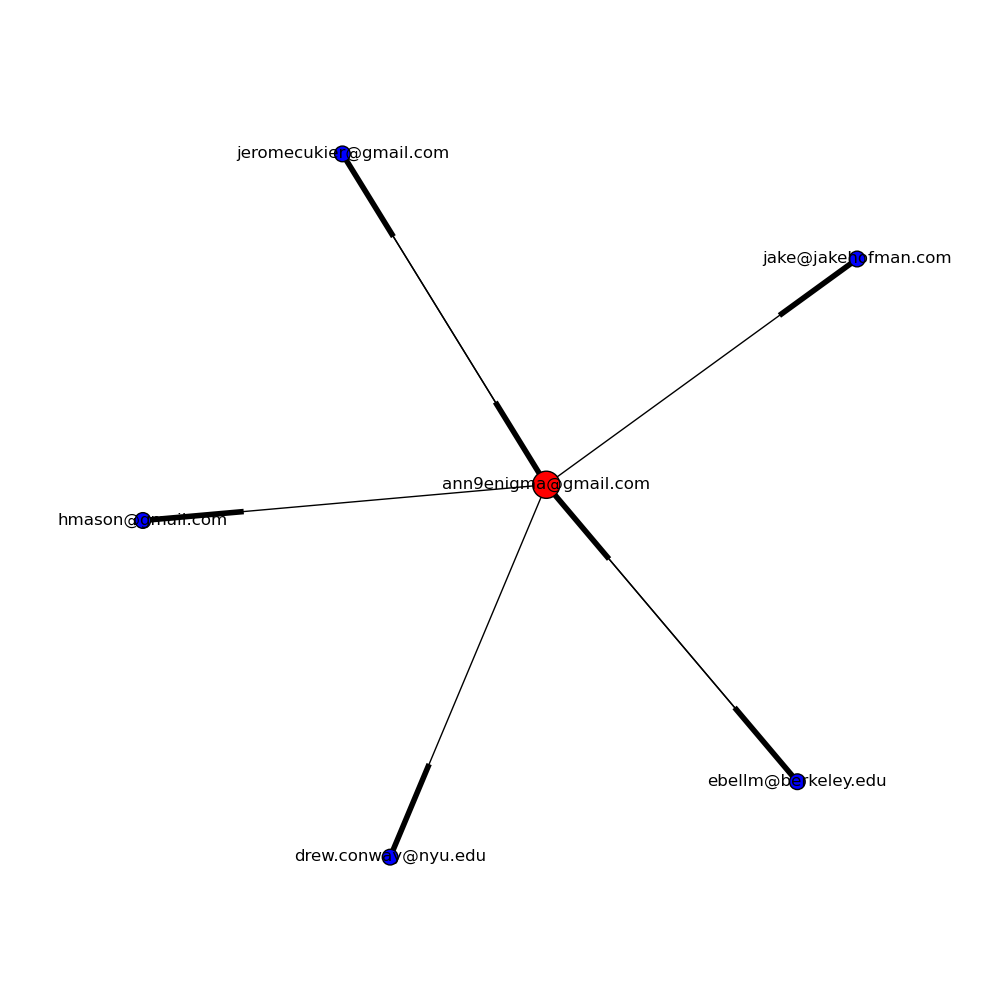
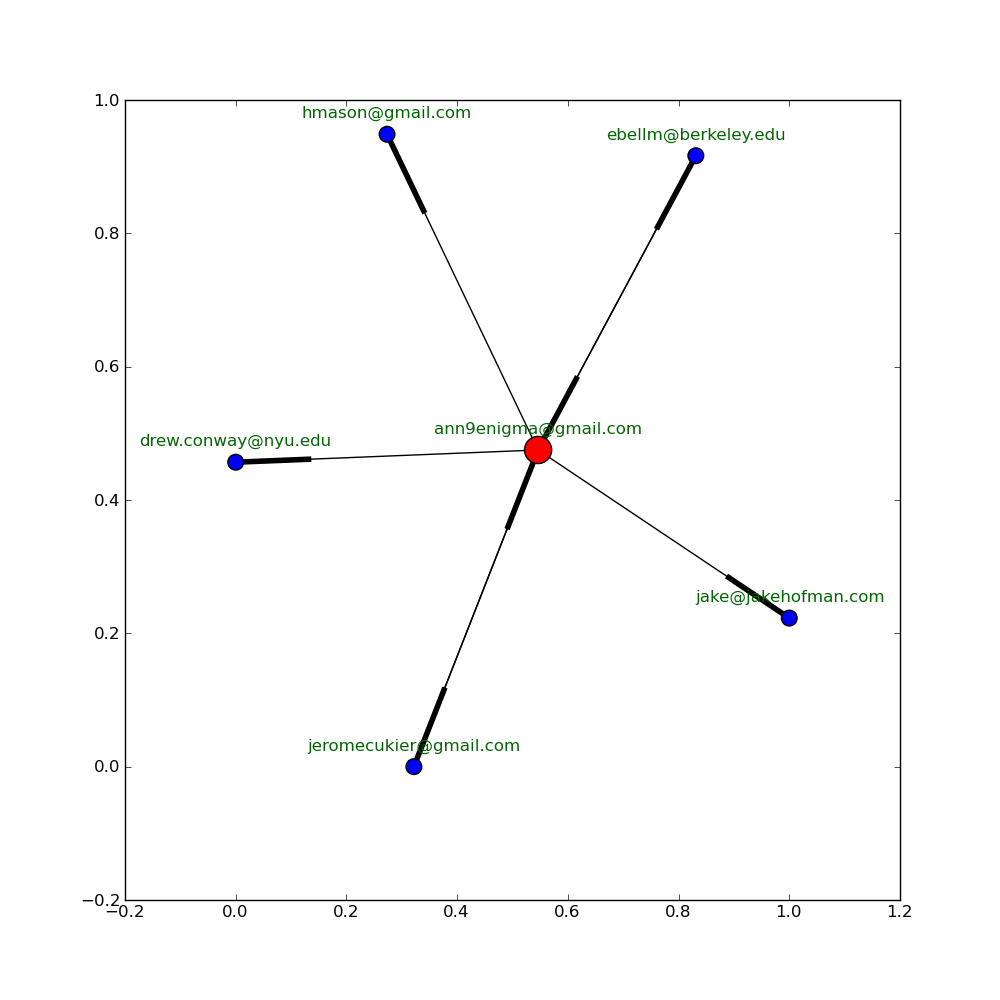
Moved e-mail viz script and changed vix slightly to make them more readable

diff --git a/code/text_data/email_graph/email_viz.py b/code/text_data/email_graph/email_viz.py
@@ -35,11 +35,20 @@ def lattice_plot(component_list, file_path):
     else:
         num_cols=num_components/2
     
-    # Plot subgraphs
+    # Plot subgraphs, with centrality annotation
     plot_count=1
     for G in component_list:
+        # Find actor in each component with highest degree
+        in_cent=nx.degree(G)
+        in_cent=[(b,a) for (a,b) in in_cent.items()]
+        in_cent.sort()
+        in_cent.reverse()
+        high_in=in_cent[0][1]
+        
+        # Plot with annotation
         plt.subplot(2,num_cols,plot_count)
-        nx.draw_spring(G, node_size=35)
+        nx.draw_spring(G, node_size=35, with_labels=False)
+        plt.text( 0,-.1,"Highest degree: "+high_in, color="darkgreen")
         plot_count+=1
     
     plt.savefig(file_path)
@@ -51,11 +60,15 @@ def ego_plot(graph, n, file_path):
     ego=nx.ego_graph(graph,n) # Get ego graph for n
     
     # Draw graph
-    pos=nx.spring_layout(ego)
-    nx.draw(ego,pos,node_color='b',node_size=100)
+    pos=nx.spring_layout(ego, iterations=5000)
+    nx.draw_networkx_nodes(ego,pos,node_color='b',node_size=100)
+    nx.draw_networkx_edges(ego,pos)
+    # Create label offset
+    label_pos=dict([(a,[b[0],b[1]+0.03]) for (a,b) in pos.items()])
+    nx.draw_networkx_labels(ego, pos=label_pos,font_color="darkgreen")
     
     # Draw ego as large and red
-    nx.draw_networkx_nodes(ego,pos,nodelist=[n],node_size=300,node_color='r')
+    nx.draw_networkx_nodes(ego,pos,nodelist=[n],node_size=300,node_color='r', font_color="darkgreen")
     plt.savefig(file_path)
     
 
@@ -97,7 +110,7 @@ def graphFromCSV(file_path, create_using=nx.DiGraph()):
 
 def main():
     # Create a NetworkX graph object 
-    gmail_graph=graphFromCSV("email_graph.csv")
+    gmail_graph=graphFromCSV("../email_analysis/email_graph.csv")
 
     # Draw entire graph
     full_graph=plt.figure(figsize=(10,10))
